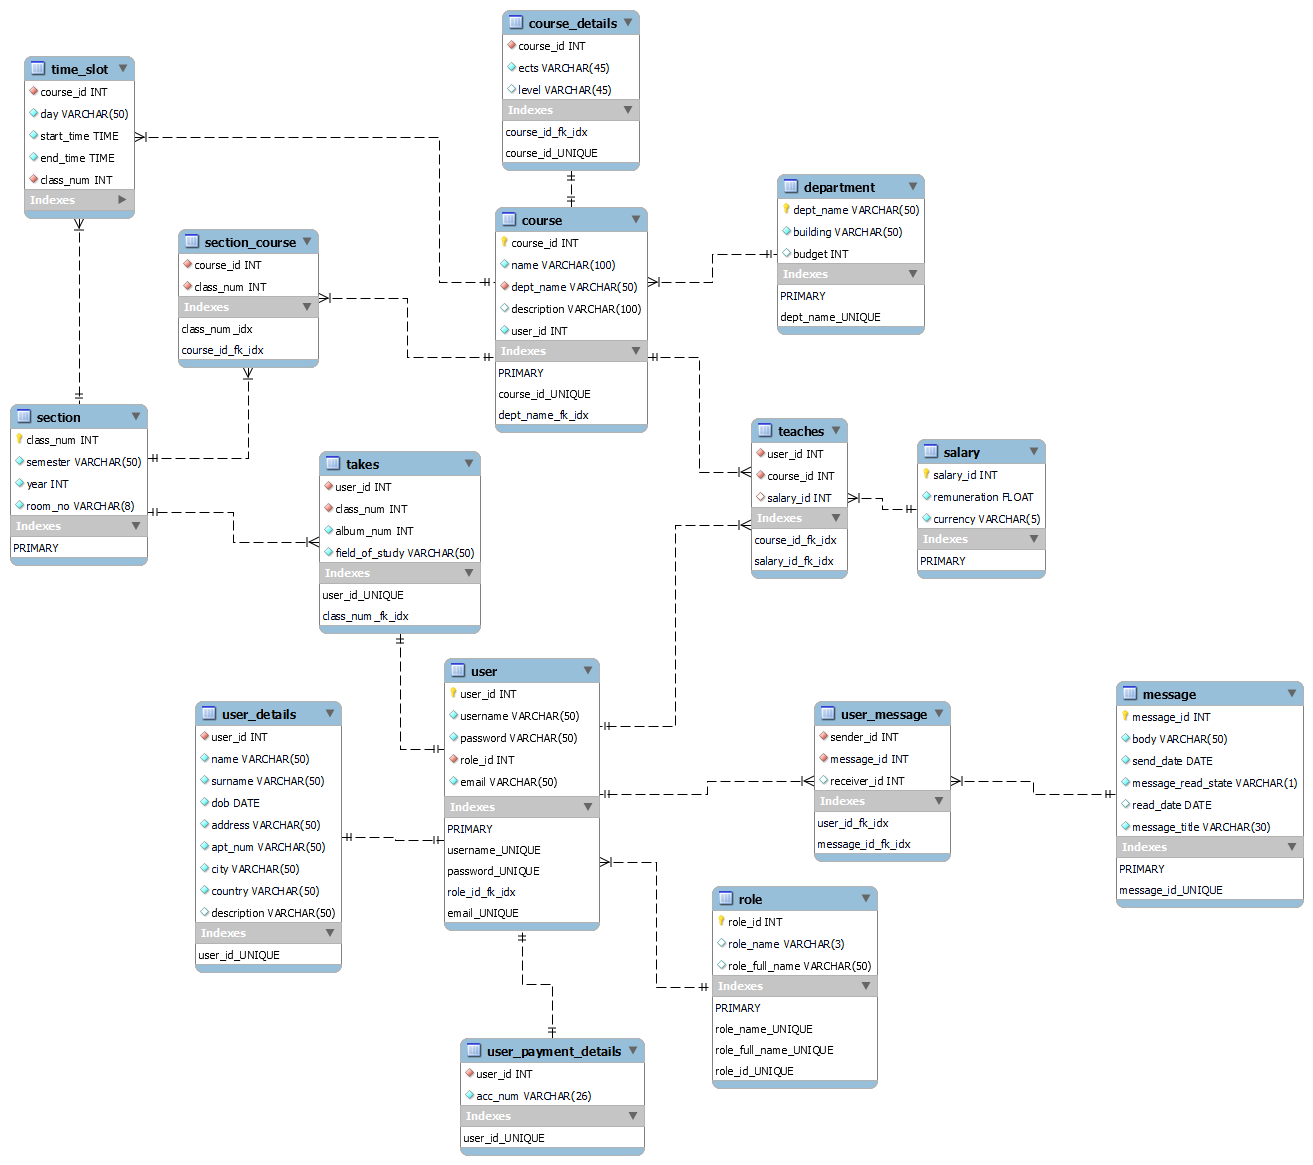
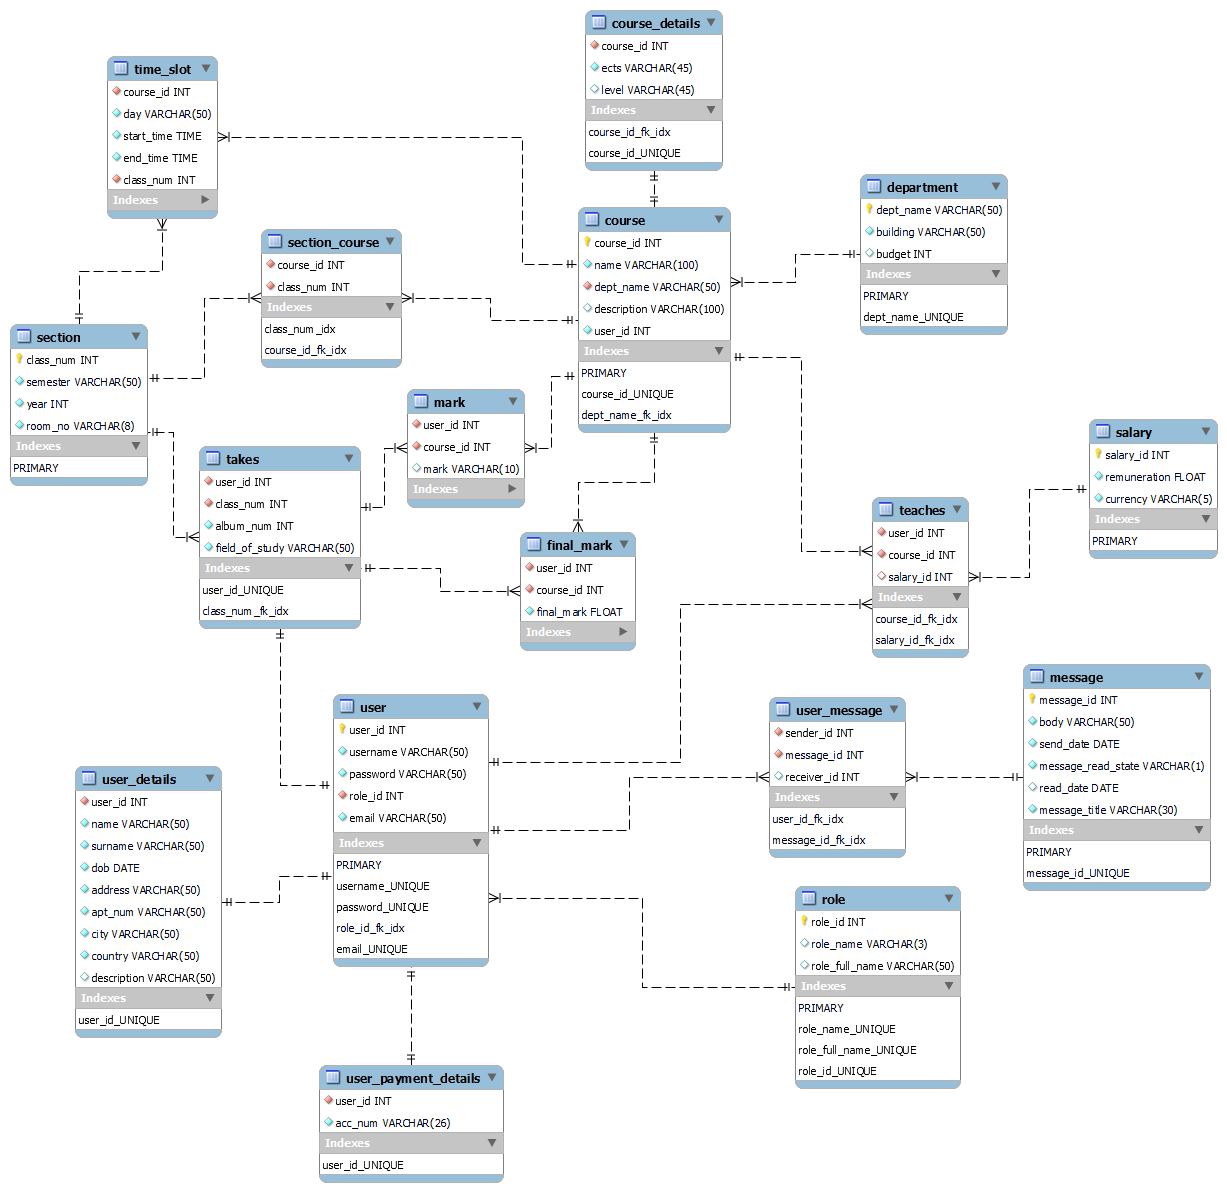
Version 1.0

diff --git a/src/main/resources/templates/index.html b/src/main/resources/templates/index.html
@@ -15,7 +15,7 @@
         <div class="container"><a class="navbar-brand d-flex align-items-center" href="./index.html" th:href="@{index.html}"><span class="bs-icon-sm bs-icon-rounded bs-icon-primary d-flex justify-content-center align-items-center me-2 bs-icon"><img id="logo" class="col-md-12 rounded-circle" src="../static/assets/img/wszib-logo.png" th:src="@{/img/wszib-logo.png}"></span><span id="logo-title" class="col-md-12 col-sm-12">Wyższa Szkoła Zarządzania i Bankowości</span></a><button data-bs-toggle="collapse" class="navbar-toggler" data-bs-target="#navcol-5"><span class="visually-hidden">Toggle navigation</span><span class="navbar-toggler-icon"></span></button>
             <div class="collapse navbar-collapse" id="navcol-5">
                 <ul class="navbar-nav ms-auto">
-                    <li class="nav-item"><a class="nav-link active" href="#">Home</a></li>
+                    <li class="nav-item"><a class="nav-link active" href="#" th:href="@{sushi-web}">Home</a></li>
                     <li class="nav-item"><a class="nav-link" href="#">Contact</a></li>
                     <li class="nav-item"><a class="nav-link" href="#">Account Settings</a></li>
                 </ul><a class="btn btn-primary ms-md-2" role="button" href="#">Logout</a>
@@ -26,7 +26,7 @@
         <div class="container">
             <div class="row" style="box-shadow: 17px 16px 6px rgb(187,191,195);">
                 <div class="col-md-6" style="color: var(--bs-body-bg);background: #2759a3;width: 40%;"><img class="col-md-6 col-sm-6 rounded-circle d-block mx-auto" src="../static/assets/img/David.jpg" th:src="@{${'img/prof/' + profileImageName.toString()}}" style="margin-top: 20pt;margin-bottom: 10pt;border-width: 3px;border-style: solid;">
-                    <h1 id="student-name" class="text-center" style="border-top-style: none;font-family: Agency FB, serif;letter-spacing: 2pt;">Dawid Miskowiec</h1>
+                    <h1 id="student-name" class="text-center" style="border-top-style: none;font-family: Agency FB, serif;letter-spacing: 2pt;" th:text="${user_details.name + ' ' + user_details.surname}">Dawid Miskowiec</h1>
                     <div class="table-responsive" style="border-style: none;border-top-style: none;">
                         <table class="table table-hover" id="student-info-table">
                             <thead style="border-top-style: none;">
@@ -155,7 +155,7 @@
                                             <path d="M14.5 3a.5.5 0 0 1 .5.5v9a.5.5 0 0 1-.5.5h-13a.5.5 0 0 1-.5-.5v-9a.5.5 0 0 1 .5-.5h13zm-13-1A1.5 1.5 0 0 0 0 3.5v9A1.5 1.5 0 0 0 1.5 14h13a1.5 1.5 0 0 0 1.5-1.5v-9A1.5 1.5 0 0 0 14.5 2h-13z"></path>
                                             <path d="M5 8a.5.5 0 0 1 .5-.5h7a.5.5 0 0 1 0 1h-7A.5.5 0 0 1 5 8zm0-2.5a.5.5 0 0 1 .5-.5h7a.5.5 0 0 1 0 1h-7a.5.5 0 0 1-.5-.5zm0 5a.5.5 0 0 1 .5-.5h7a.5.5 0 0 1 0 1h-7a.5.5 0 0 1-.5-.5zm-1-5a.5.5 0 1 1-1 0 .5.5 0 0 1 1 0zM4 8a.5.5 0 1 1-1 0 .5.5 0 0 1 1 0zm0 2.5a.5.5 0 1 1-1 0 .5.5 0 0 1 1 0z"></path>
                                         </svg></td>
-                                    <td style="border-style: none;"><a href="library.html" th:href="@{sushi-wszib/library}">Biblioteka</a></td>
+                                    <td style="border-style: none;"><a href="library.html" th:href="@{sushi-web/library}">Biblioteka</a></td>
                                 </tr>
                             </tbody>
                         </table>

diff --git a/src/main/resources/templates/library.html b/src/main/resources/templates/library.html
@@ -15,7 +15,7 @@
         <div class="container"><a class="navbar-brand d-flex align-items-center" href="./index.html" th:href="@{index.html}"><span class="bs-icon-sm bs-icon-rounded bs-icon-primary d-flex justify-content-center align-items-center me-2 bs-icon"><img id="logo" class="col-md-12 rounded-circle" src="../static/assets/img/wszib-logo.png" th:src="@{/img/wszib-logo.png}"></span><span id="logo-title" class="col-md-12 col-sm-12">Wyższa Szkoła Zarządzania i Bankowości</span></a><button data-bs-toggle="collapse" class="navbar-toggler" data-bs-target="#navcol-5"><span class="visually-hidden">Toggle navigation</span><span class="navbar-toggler-icon"></span></button>
             <div class="collapse navbar-collapse" id="navcol-5">
                 <ul class="navbar-nav ms-auto">
-                    <li class="nav-item"><a class="nav-link active" href="#">Home</a></li>
+                    <li class="nav-item"><a class="nav-link active" href="#" th:href="@{/sushi-web}">Home</a></li>
                     <li class="nav-item"><a class="nav-link" href="#">Contact</a></li>
                     <li class="nav-item"><a class="nav-link" href="#">Account Settings</a></li>
                 </ul><a class="btn btn-primary ms-md-2" role="button" href="#">Logout</a>

diff --git a/src/main/java/com/example/susziweb/db/Entity/Mark.java b/src/main/java/com/example/susziweb/db/Entity/Mark.java
@@ -1,44 +1,34 @@
 package com.example.susziweb.db.Entity;
 
-import lombok.*;
+import lombok.Getter;
+import lombok.RequiredArgsConstructor;
+import lombok.Setter;
 
 import javax.persistence.*;
-import java.util.List;
 
 @Entity
 @Getter
 @Setter
-@ToString
 @RequiredArgsConstructor
-@Table(name = "teaches", schema = "public")
-public class Teaches {
+@Table(name = "mark")
+public class Mark {
     @Id
     @GeneratedValue(strategy = GenerationType.IDENTITY)
-    private Long id;
-
     @Column(name = "user_id")
     private Long user_id;
 
     @Column(name = "course_id")
     private Long course_id;
 
-    @Column(name = "salary_id")
-    private Long salary_id;
-
     @ManyToOne(cascade = CascadeType.ALL,
             fetch = FetchType.LAZY, optional = false)
     @JoinColumn(name = "user_id", referencedColumnName = "user_id",
             insertable = false, updatable = false)
-    private User user;
+    private Takes takes;
 
     @ManyToOne(cascade = CascadeType.ALL,
             fetch = FetchType.LAZY, optional = false)
     @JoinColumn(name = "course_id", referencedColumnName = "course_id",
             insertable = false, updatable = false)
     private Course course;
-
-    @ManyToOne(cascade = CascadeType.ALL,
-            fetch = FetchType.LAZY, optional = false)
-    @JoinColumn(name = "salary_id", referencedColumnName = "salary_id", insertable = false, updatable = false)
-    private Salary salary;
 }

diff --git a/src/main/java/com/example/susziweb/Controller/TemplateController.java b/src/main/java/com/example/susziweb/Controller/TemplateController.java
@@ -38,7 +38,12 @@ public class TemplateController {
         User_details userDetailsByUsername = userService.findUserDetailsByUsername(username);
         model.addAttribute("user_details", userDetailsByUsername);
 
-        model.addAttribute("profileImageName", username + ".jpg");
+        if(userDetailsByUsername.getUser_img() == null) {
+            model.addAttribute("profileImageName",   "default.jpg");
+        } else {
+            model.addAttribute("profileImageName", userDetailsByUsername.getUser_img() + ".jpg");
+        }
+
 
         List<Object[]> userSectionInfo = userService.findUserSectionInfo(
                 userService.findUserByUsername(((UserDetails) SecurityContextHolder
@@ -51,19 +56,5 @@ public class TemplateController {
 
         model.addAttribute("messages", userService.findAddressedToUserMessages(user));
         return "index";
-    }
-
-    @GetMapping("/marks")
-    public String getMarksView(Model model) {
-
-        String username = ((UserDetails) SecurityContextHolder.getContext().getAuthentication().getPrincipal()).getUsername();
-
-        User_details userDetailsByUsername = userService.findUserDetailsByUsername(username);
-        model.addAttribute("userDetails", userDetailsByUsername);
-
-        /*StudentInfo studentInfo = userService.findStudentInfoByUsername(username);
-        model.addAttribute("studentInfo", studentInfo);*/
-
-        return "marks";
     }
 }

diff --git a/src/main/java/com/example/susziweb/Config/SecurityConfig.java b/src/main/java/com/example/susziweb/Config/SecurityConfig.java
@@ -38,7 +38,7 @@ public class SecurityConfig extends WebSecurityConfigurerAdapter {
                 .antMatchers("/css/**", "/js/**", "/assets/**","/resources/**").permitAll()
                 .antMatchers("/sushi-web/api/**").hasRole(ADMIN.name())
                 .antMatchers("/sushi-web/login",
-                        "/sushi-web/login",
+                        "/sushi-web/",
                         "/sushi-web/library").hasRole(STUDENT.name())
                 .anyRequest()
                 .authenticated()
@@ -63,11 +63,6 @@ public class SecurityConfig extends WebSecurityConfigurerAdapter {
                     .deleteCookies("JSESSIONID", "remember-me")
                     .logoutSuccessUrl("/sushi-web/login");
     }
-
-    /*@Bean
-    public AuthenticationSuccessHandler authenticationSuccessHandler() {
-        return new MySimpleUrlAuthenticationSuccessHandler();
-    }*/
 
     @Override
     protected void configure(AuthenticationManagerBuilder auth) throws Exception {

diff --git a/src/main/java/com/example/susziweb/db/Entity/Course.java b/src/main/java/com/example/susziweb/db/Entity/Course.java
@@ -25,6 +25,8 @@ public class Course {
     private String description;
     @Column(name = "user_id")
     private Long user_id;
+    @Column(name = "type")
+    private String type;
 
     @ManyToOne(cascade = CascadeType.ALL,
             fetch = FetchType.LAZY, optional = false)
@@ -38,12 +40,12 @@ public class Course {
             insertable = false, updatable = false)
     private Time_slot time_slot;
 
-    @ManyToOne(cascade = CascadeType.ALL,
-            fetch = FetchType.LAZY, optional = false)
-    @JoinColumn(name = "course_id", referencedColumnName = "course_id",
-            insertable = false, updatable = false)
-    private Teaches teaches;
+    @OneToMany(mappedBy = "course")
+    private List<Teaches> teaches;
 
     @OneToMany(mappedBy = "courseD")
     private List<Department> departments;
+
+    @OneToMany(mappedBy = "course")
+    private List<Mark> marks;
 }

diff --git a/src/main/java/com/example/susziweb/Controller/libraryController.java b/src/main/java/com/example/susziweb/Controller/libraryController.java
@@ -1,22 +1,15 @@
 package com.example.susziweb.Controller;
 
-import com.example.susziweb.Service.UserService;
-import com.example.susziweb.db.Entity.User_details;
-import org.springframework.security.core.context.SecurityContextHolder;
-import org.springframework.security.core.userdetails.UserDetails;
 import org.springframework.stereotype.Controller;
 import org.springframework.ui.Model;
 import org.springframework.web.bind.annotation.GetMapping;
 import org.springframework.web.bind.annotation.RequestMapping;
 
-import java.util.Arrays;
-import java.util.List;
-
 @Controller
 @RequestMapping("/sushi-web/library")
 public class libraryController {
     @GetMapping
-    public String getView(Model model) {
+    public String getView() {
         return "library";
     }
 }

diff --git a/src/main/java/com/example/susziweb/db/Entity/User.java b/src/main/java/com/example/susziweb/db/Entity/User.java
@@ -53,16 +53,8 @@ public class User {
     @JoinColumn(name = "user_id", referencedColumnName = "user_id")
     private Takes takes;
 
-    @OneToOne(mappedBy = "user", cascade = CascadeType.ALL,
-            fetch = FetchType.LAZY, optional = false)
-    @JoinColumn(name = "user_id", referencedColumnName = "user_id")
-    private Teaches teaches;
-
-    /*@ManyToOne(cascade = CascadeType.ALL,
-            fetch = FetchType.LAZY, optional = false)
-    @JoinColumn(name = "user_id", referencedColumnName = "user_id",
-            insertable = false, updatable = false)
-    private User_message user_message;*/
+    @OneToMany(mappedBy = "user")
+    private List<Teaches> teaches;
 
     @OneToMany(mappedBy = "users")
     private List<User_message> user_messages;

diff --git a/src/main/java/com/example/susziweb/auth/ApplicationUserRole.java b/src/main/java/com/example/susziweb/auth/ApplicationUserRole.java
@@ -9,7 +9,9 @@ import java.util.stream.Collectors;
 public enum ApplicationUserRole {
     STUDENT(Sets.newHashSet()),
     ADMIN(Sets.newHashSet(ApplicationUserPermission.COURSE_READ, ApplicationUserPermission.COURSE_WRITE, ApplicationUserPermission.STUDENT_READ, ApplicationUserPermission.STUDENT_WRITE)),
-    DZIEKANAT(Sets.newHashSet());
+    DZIEKANAT(Sets.newHashSet()),
+    TEACHER(Sets.newHashSet(ApplicationUserPermission.COURSE_READ, ApplicationUserPermission.COURSE_WRITE, ApplicationUserPermission.STUDENT_READ, ApplicationUserPermission.STUDENT_WRITE));
+
     private final Set<ApplicationUserPermission> permissions;
 
     ApplicationUserRole(Set<ApplicationUserPermission> permissions) {

diff --git a/src/main/java/com/example/susziweb/db/Entity/Takes.java b/src/main/java/com/example/susziweb/db/Entity/Takes.java
@@ -5,6 +5,7 @@ import lombok.RequiredArgsConstructor;
 import lombok.Setter;
 
 import javax.persistence.*;
+import java.util.List;
 
 @Entity
 @Getter
@@ -31,5 +32,6 @@ public class Takes {
     @JoinColumn(name = "class_num")
     private Section section;
 
-
+    @OneToMany(mappedBy = "takes")
+    private List<Mark> marks;
 }

diff --git a/src/main/java/com/example/susziweb/db/Entity/User_details.java b/src/main/java/com/example/susziweb/db/Entity/User_details.java
@@ -41,6 +41,9 @@ public class User_details {
     @Column(name = "description")
     private String description;
 
+    @Column(name = "user_img")
+    private String user_img;
+
     @OneToOne(fetch = FetchType.LAZY, cascade = CascadeType.ALL)
     @JoinColumn(name = "user_id")
     private User user;
